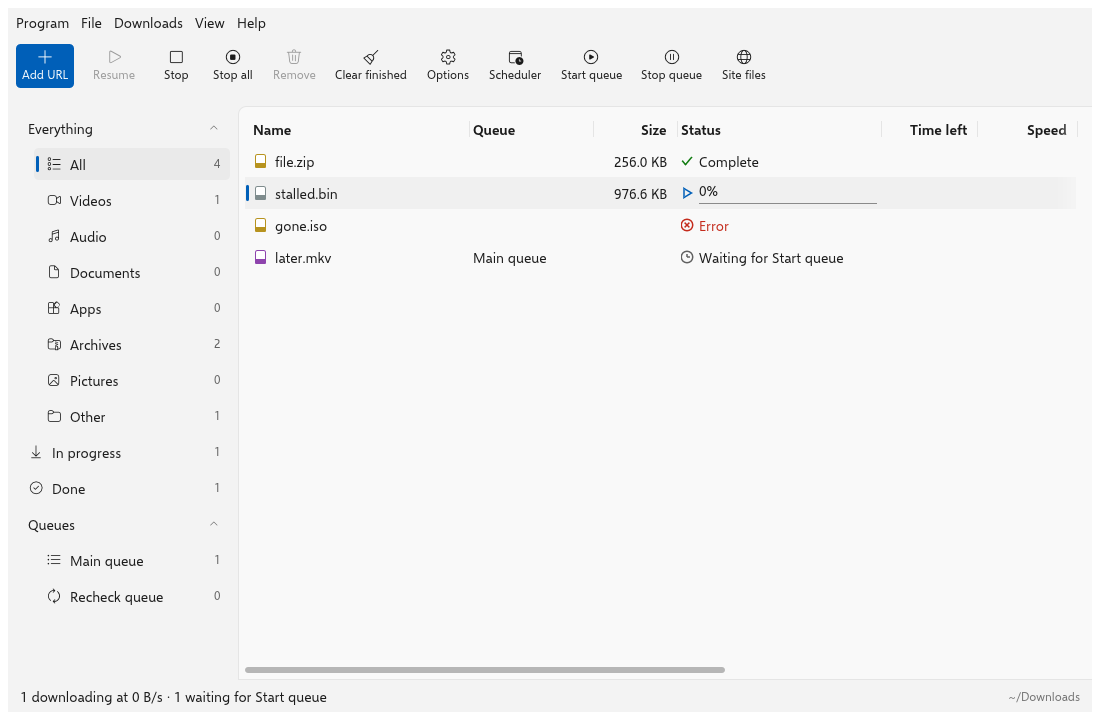
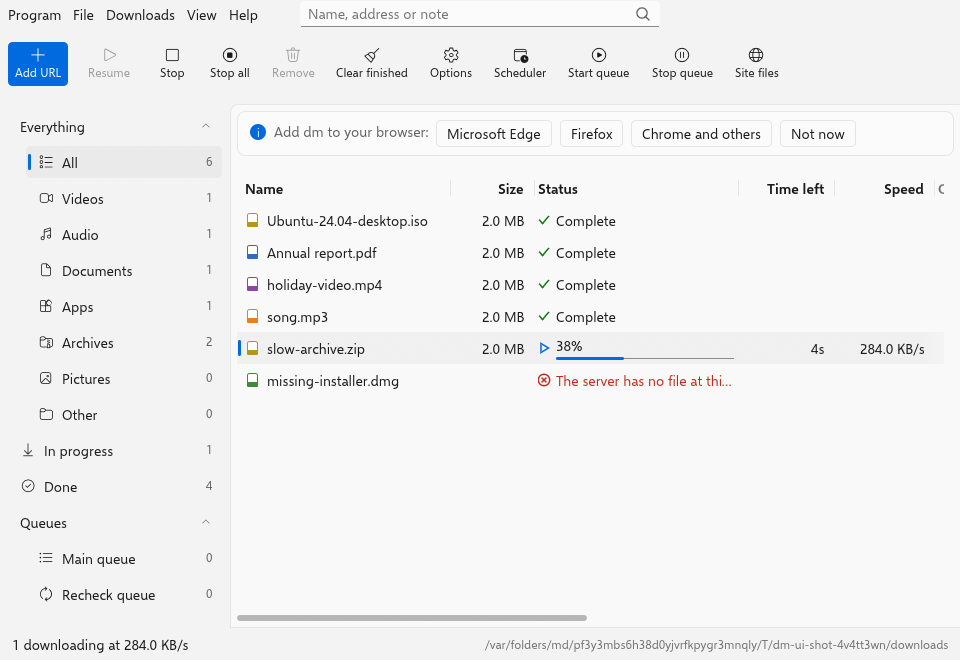
Review fixes: search box slot tested, classic look keeps its hint bar, queue caps; README pictures show the new window

diff --git a/desktop/crates/dm-desktop/src/app/bars.rs b/desktop/crates/dm-desktop/src/app/bars.rs
@@ -22,51 +22,70 @@ impl DmApp {
         if !self.browser_hint.1 || room < 16.0 {
             return;
         }
-        let mut open: Option<&str> = None;
+        let mut open: Option<&'static str> = None;
         let tokens = crate::theme::Tokens::get(ui.ctx());
-        // WinUI's InfoBar: a card in the layer's surface with a hairline
-        // edge, an accent badge, the title in strong type and its message
-        // beside it, the actions after.
-        egui::Frame::new()
-            .fill(tokens.control)
-            .stroke(egui::Stroke::new(1.0, tokens.border))
-            .corner_radius(tokens.card_radius as f32)
-            .inner_margin(egui::Margin::symmetric(12, 8))
-            .show(ui, |ui| {
-                ui.set_width(ui.available_width());
-                ui.horizontal_wrapped(|ui| {
-                    let (badge, _) = ui.allocate_exact_size(egui::vec2(16.0, 16.0), egui::Sense::hover());
-                    ui.painter().circle_filled(badge.center(), 8.0, tokens.brand);
-                    ui.painter().text(
-                        badge.center(),
-                        egui::Align2::CENTER_CENTER,
-                        "i",
-                        egui::FontId::proportional(11.0),
-                        tokens.on_brand,
-                    );
-                    ui.label(egui::RichText::new(t("Add dm to your browser:")).strong())
-                        .on_hover_text(t(
-                            "Downloads you click in your browser come to dm once its extension is added.",
-                        ));
-                    if ui.button("Microsoft Edge").clicked() {
-                        open = Some(EXTENSION_EDGE);
-                    }
-                    if ui.button("Firefox").clicked() {
-                        open = Some(EXTENSION_FIREFOX);
-                    }
-                    if ui.button(t("Chrome and others")).clicked() {
-                        open = Some(EXTENSION_CHROME);
-                    }
-                    if ui.button(t("Not now")).clicked() {
-                        let _ = std::fs::create_dir_all(&home);
-                        let _ = std::fs::write(home.join(BROWSER_HINT_HIDDEN), b"");
-                        self.browser_hint = (Some(Instant::now()), false);
-                    }
+        if tokens.modern {
+            // WinUI's InfoBar: a card in the control's surface with a
+            // hairline edge, an accent badge, a strong title, then the
+            // actions.
+            egui::Frame::new()
+                .fill(tokens.control)
+                .stroke(egui::Stroke::new(1.0, tokens.border))
+                .corner_radius(tokens.card_radius as f32)
+                .inner_margin(egui::Margin::symmetric(12, 8))
+                .show(ui, |ui| {
+                    ui.set_width(ui.available_width());
+                    ui.horizontal_wrapped(|ui| {
+                        let (badge, _) =
+                            ui.allocate_exact_size(egui::vec2(16.0, 16.0), egui::Sense::hover());
+                        ui.painter()
+                            .circle_filled(badge.center(), 8.0, tokens.brand);
+                        ui.painter().text(
+                            badge.center(),
+                            egui::Align2::CENTER_CENTER,
+                            "i",
+                            egui::FontId::proportional(11.0),
+                            tokens.on_brand,
+                        );
+                        self.browser_actions(ui, &mut open, &home, true);
+                    });
                 });
-            });
-        ui.add_space(8.0);
+            ui.add_space(8.0);
+        } else {
+            ui.horizontal_wrapped(|ui| self.browser_actions(ui, &mut open, &home, false));
+            ui.separator();
+        }
         if let Some(page) = open {
             self.open_file(page);
+        }
+    }
+
+    /// The browser hint's words and buttons, which both looks share.
+    fn browser_actions(
+        &mut self,
+        ui: &mut egui::Ui,
+        open: &mut Option<&'static str>,
+        home: &std::path::Path,
+        strong: bool,
+    ) {
+        let title = egui::RichText::new(t("Add dm to your browser:"));
+        ui.label(if strong { title.strong() } else { title })
+            .on_hover_text(t(
+                "Downloads you click in your browser come to dm once its extension is added.",
+            ));
+        if ui.button("Microsoft Edge").clicked() {
+            *open = Some(EXTENSION_EDGE);
+        }
+        if ui.button("Firefox").clicked() {
+            *open = Some(EXTENSION_FIREFOX);
+        }
+        if ui.button(t("Chrome and others")).clicked() {
+            *open = Some(EXTENSION_CHROME);
+        }
+        if ui.button(t("Not now")).clicked() {
+            let _ = std::fs::create_dir_all(home);
+            let _ = std::fs::write(home.join(BROWSER_HINT_HIDDEN), b"");
+            self.browser_hint = (Some(Instant::now()), false);
         }
     }
 
@@ -152,6 +171,22 @@ impl DmApp {
         ui.separator();
     }
 
+    /// Clear, and how many rows the filter leaves.
+    fn filter_status(&mut self, ui: &mut egui::Ui) {
+        if ui.button(t("Clear")).clicked() {
+            self.filter.clear();
+        }
+        let shown = self.rows.iter().filter(|r| self.shows(r)).count();
+        ui.label(
+            egui::RichText::new(crate::i18n::tn(
+                "{} shown||{} shown",
+                shown as u64,
+                &[&shown],
+            ))
+            .weak(),
+        );
+    }
+
     /// A field over the list that narrows it as one types. Shown once
     /// there is a list to narrow; Escape in it, or ×, shows every row again.
     pub(super) fn filter_bar(&mut self, ui: &mut egui::Ui) {
@@ -161,28 +196,9 @@ impl DmApp {
         // Held by the top row's search box, where it has room.
         if self.title_search {
             if !self.filter.is_empty() {
-                let shown = self.rows.iter().filter(|r| self.shows(r)).count();
-                ui.horizontal(|ui| {
-                    if ui.button(t("Clear")).clicked() {
-                        self.filter.clear();
-                    }
-                    ui.label(
-                        egui::RichText::new(crate::i18n::tn(
-                            "{} shown||{} shown",
-                            shown as u64,
-                            &[&shown],
-                        ))
-                        .weak(),
-                    );
-                });
+                ui.horizontal(|ui| self.filter_status(ui));
                 ui.add_space(2.0);
             }
-            return;
-        }
-        // Left out where the list itself has too little room, as at 300 %
-        // text in a short window, where it pushed the last row under the
-        // status bar; never while it holds words, which hide rows.
-        if self.filter.is_empty() && ui.available_height() < 200.0 {
             return;
         }
         ui.horizontal(|ui| {
@@ -198,18 +214,7 @@ impl DmApp {
                 self.filter.clear();
             }
             if !self.filter.is_empty() {
-                if ui.button(t("Clear")).clicked() {
-                    self.filter.clear();
-                }
-                let shown = self.rows.iter().filter(|r| self.shows(r)).count();
-                ui.label(
-                    egui::RichText::new(crate::i18n::tn(
-                        "{} shown||{} shown",
-                        shown as u64,
-                        &[&shown],
-                    ))
-                    .weak(),
-                );
+                self.filter_status(ui);
             }
         });
         ui.add_space(2.0);

diff --git a/desktop/crates/dm-desktop/src/app/menus.rs b/desktop/crates/dm-desktop/src/app/menus.rs
@@ -39,6 +39,13 @@ impl DmApp {
         if behind {
             self.open_menu_by_key = false;
         }
+        // Decided afresh each frame, by the row that draws the box.
+        self.title_search = false;
+        // The row is as tall with the search box as without, so the window
+        // does not jump when the first download is added.
+        if crate::theme::Tokens::get(ui.ctx()).modern {
+            ui.set_min_height(30.0);
+        }
         ui.add_enabled_ui(!behind, |ui| self.menu_bar_items(ui));
     }
 
@@ -48,21 +55,20 @@ impl DmApp {
     /// row has no room for it, and in the classic look.
     fn title_search(&mut self, ui: &mut egui::Ui, used: f32) {
         let tokens = crate::theme::Tokens::get(ui.ctx());
-        // The window's width, whatever the menu bar's own area is.
         let window = ui.ctx().content_rect();
-        let row = egui::Rect::from_x_y_ranges(window.x_range(), ui.min_rect().y_range());
-        let width = 360.0_f32.min(row.width() - 16.0);
-        let left = (row.center().x - width / 2.0).max(used + 24.0);
-        let width = width.min(row.right() - 8.0 - left);
         let wanted = tokens.modern && (!self.rows.is_empty() || !self.filter.is_empty());
-        self.title_search = wanted && width >= 180.0;
-        if !self.title_search {
+        let slot = if wanted {
+            search_slot((window.left(), window.right()), used)
+        } else {
+            None
+        };
+        self.title_search = slot.is_some();
+        let Some((left, width)) = slot else {
             return;
-        }
-        let field = egui::Rect::from_min_size(
-            egui::pos2(left, row.center().y - 14.0),
-            egui::vec2(width, 28.0),
-        );
+        };
+        let middle = ui.min_rect().center().y;
+        let field =
+            egui::Rect::from_min_size(egui::pos2(left, middle - 13.0), egui::vec2(width, 26.0));
         let response = ui.put(
             field,
             egui::TextEdit::singleline(&mut self.filter)
@@ -73,7 +79,11 @@ impl DmApp {
         ui.ctx().accesskit_node_builder(response.id, |node| {
             node.set_label(t("Filter"));
         });
-        if response.has_focus() && ui.input(|i| i.key_pressed(egui::Key::Escape)) {
+        // Escape gives the field's focus up in the same frame, so it is
+        // asked of the field's loss too.
+        if (response.has_focus() || response.lost_focus())
+            && ui.input(|i| i.key_pressed(egui::Key::Escape))
+        {
             self.filter.clear();
         }
         // The magnifier, drawn: the icon font holds only what the window
@@ -501,5 +511,32 @@ impl DmApp {
                 self.said = e.into();
             }
         }
+    }
+}
+
+/// Where the top row's search box goes: its left edge and width, centred in
+/// the window and clear of the menus (which end at `used`); None where it
+/// would be narrower than 180 points.
+pub(super) fn search_slot(window: (f32, f32), used: f32) -> Option<(f32, f32)> {
+    let width = 360.0_f32.min(window.1 - window.0 - 16.0);
+    let left = ((window.0 + window.1) / 2.0 - width / 2.0).max(used + 24.0);
+    let width = width.min(window.1 - 8.0 - left);
+    (width >= 180.0).then_some((left, width))
+}
+
+#[cfg(test)]
+mod search_slot_tests {
+    use super::search_slot;
+
+    #[test]
+    fn the_box_is_centred_clear_of_the_menus_and_left_out_where_narrow() {
+        assert_eq!(search_slot((0.0, 960.0), 255.0), Some((300.0, 360.0)));
+        // Menus reaching past the middle push it right, and narrow it.
+        assert_eq!(search_slot((0.0, 960.0), 500.0), Some((524.0, 360.0)));
+        // No room left: the list's own filter row is used.
+        assert_eq!(search_slot((0.0, 960.0), 800.0), None);
+        assert_eq!(search_slot((0.0, 400.0), 255.0), None);
+        // A window narrower than the margins never gives a negative width.
+        assert_eq!(search_slot((0.0, 10.0), 0.0), None);
     }
 }

diff --git a/desktop/crates/dm-desktop/src/app/human.rs b/desktop/crates/dm-desktop/src/app/human.rs
@@ -88,6 +88,20 @@ impl DmApp {
         if matches!(method, "ui.click" | "ui.type" | "ui.key") {
             self.scripted_at = Some(Instant::now());
         }
+        // Steps wait for frames: a window that draws none (parked in the
+        // tray) would let a client queue them without end.
+        if matches!(method, "ui.click" | "ui.type" | "ui.key") {
+            if self.hidden {
+                return Some(Err(
+                    "dm's window is hidden in the tray: show it first".into()
+                ));
+            }
+            if self.synthetic.len() > 64 {
+                return Some(Err(
+                    "too many steps are waiting: let the window catch up".into()
+                ));
+            }
+        }
         let wake = || {
             if let Some(ctx) = ctx {
                 ctx.request_repaint();

diff --git a/docs/ui-design.md b/docs/ui-design.md
@@ -63,6 +63,9 @@ Shadows: Fluent's 28 under dialogs, 16 under menus.
   A dialog is laid out as WinUI's ContentDialog: its title at the top left
   (`dialogs::Dialog`), its buttons on a footer band at the right, the main
   action first and filled with the accent (`dialogs::footer`).
+- **The search box** is in the top row, centred and clear of the menus, with
+  the magnifier at its right (`menus.rs`, `search_slot`); where the row has
+  no room for it (under 180 points) the filter keeps its place above the list.
 - **Messages are InfoBars:** a card in the control surface with a hairline
   edge and 8 px corners, an accent badge, the title in strong type and the
   actions after it (`bars.rs`); the floating drop target is the same card.

diff --git a/docs/how-it-works.md b/docs/how-it-works.md
@@ -33,7 +33,7 @@ every download stays with the browser.
 
 <picture>
   <source media="(prefers-color-scheme: dark)" srcset="screenshot-dark.png">
-  <img alt="The dm window: a menu bar, a toolbar of Add URL, Resume, Stop and the rest, a category tree, and the downloads as a table with Name, Size, Status, Time left, Speed and Date" src="screenshot.png">
+  <img alt="The dm window: a menu bar with a search box, a toolbar of Add URL, Resume, Stop and the rest, a category tree, and the downloads as a table with Name, Size, Status, Time left, Speed and Date" src="screenshot.png">
 </picture>
 
 <sub>The window, light or dark as the computer is (Options › General › Look

diff --git a/CHANGELOG.md b/CHANGELOG.md
@@ -5,6 +5,9 @@ the browser extension (`v*` tags) are versioned separately.
 
 ## Unreleased
 
+- The list's filter is a search box in the middle of the top row (modern
+  look, window wide enough); the filter row keeps only Clear and the count
+  while words are typed. The Find window keeps further from the found row.
 - "Add dm to your browser" is an InfoBar, as WinUI draws one: a rounded card
   with a hairline edge, an accent badge and strong title, in both themes.
 - Security: over the control protocol and MCP, a download may only be saved

diff --git a/README.md b/README.md
@@ -7,7 +7,7 @@ browser.
 
 <picture>
   <source media="(prefers-color-scheme: dark)" srcset="docs/screenshot-dark.png">
-  <img alt="The dm window: a toolbar, a list of places on the left, and the downloads as a table with their size, status, time left and speed" src="docs/screenshot.png">
+  <img alt="The dm window: a menu row with a search box, a toolbar, a list of places on the left, and the downloads as a table with their size, status, time left and speed" src="docs/screenshot.png">
 </picture>
 
 You install two things, both free:
